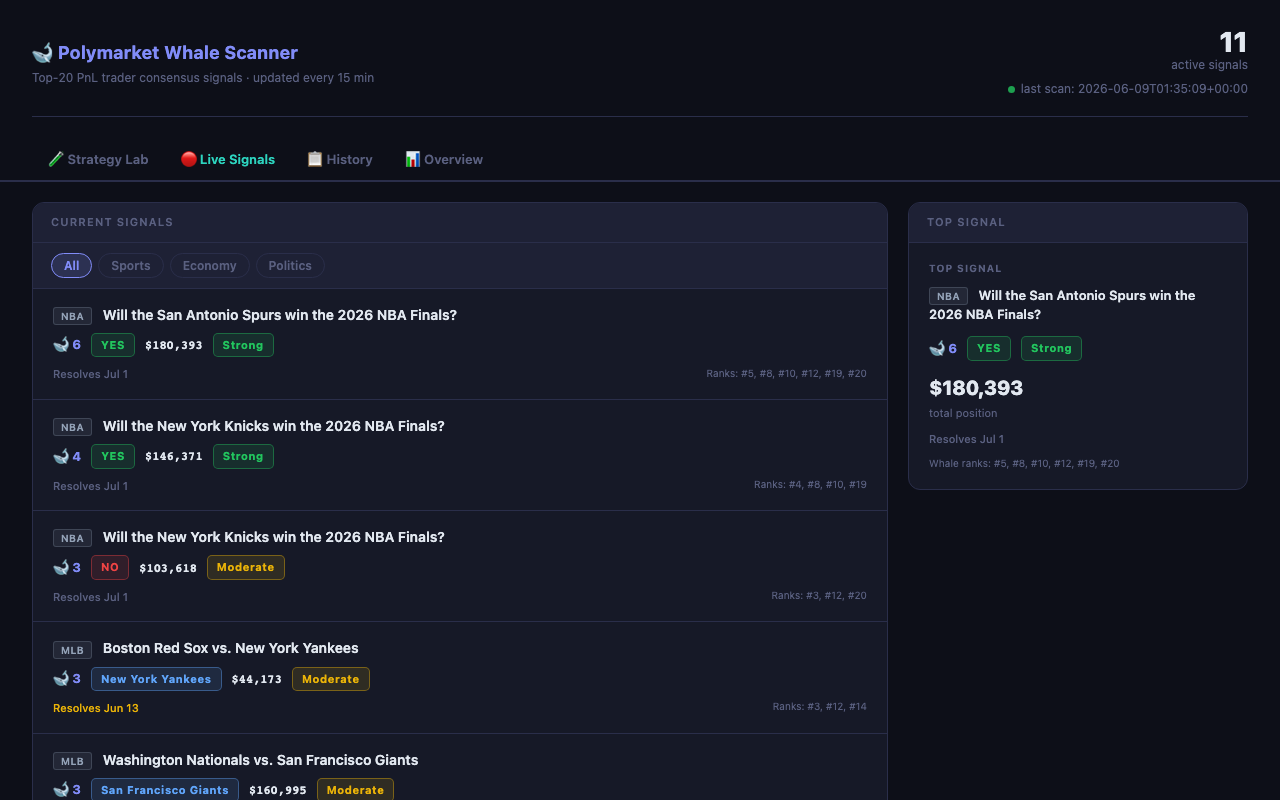
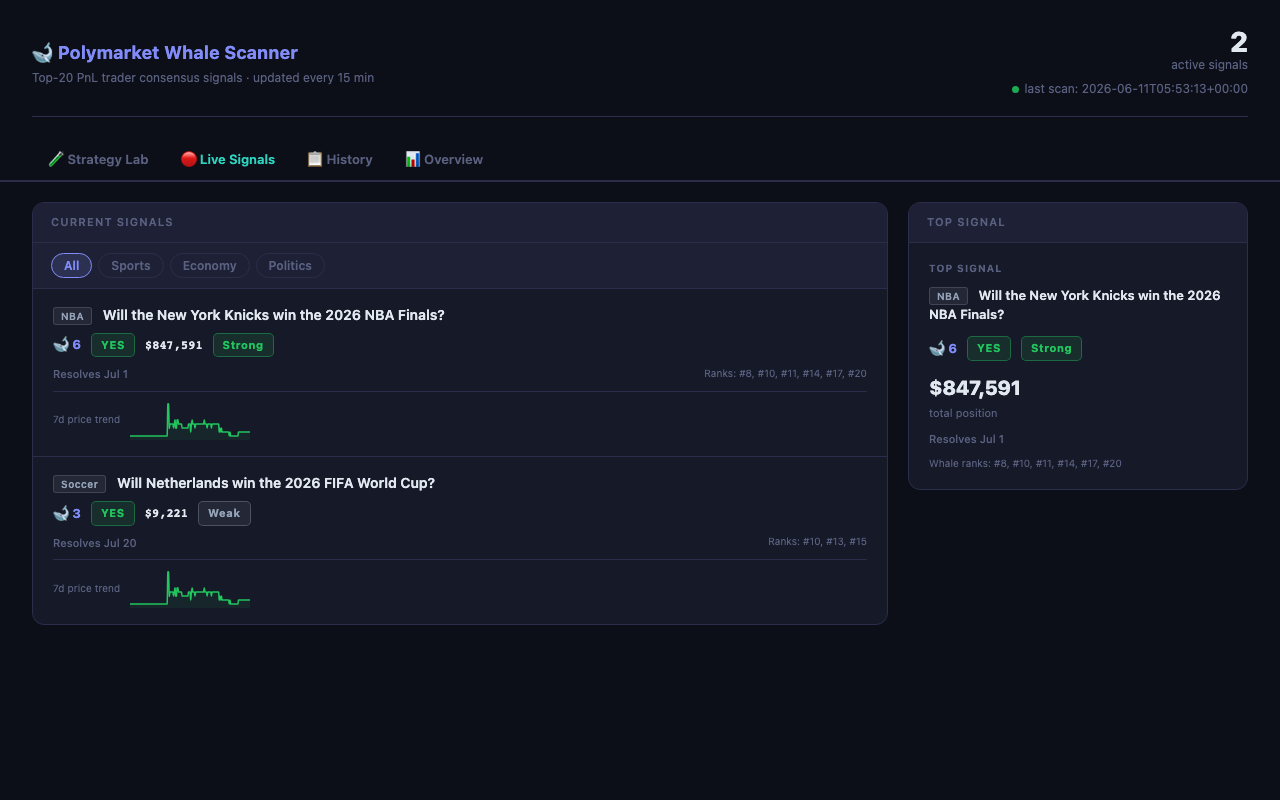
feat: signal volume chart, category donut, price sparklines
Signal Volume (History tab):
- Bar chart above resolved/pending sections showing new signals
  detected per calendar day since the scanner started
- Bars colored by dominant confidence: green=mostly Strong,
  yellow=mostly Moderate, gray=mostly Weak

Category Breakdown (Overview tab):
- Doughnut chart below Whale Leaderboard showing what share of all
  unique signals fall into each category (MLB, Tennis, Soccer, NBA…)
- Custom palette with per-category legend showing name, count, pct

Price Sparklines (Live Signals tab):
- Each active signal card shows a 120×40 inline Chart.js line chart
  of the last 7 days of price movement for the whale's chosen outcome
- Two-step fetch: Gamma markets API → clobTokenIds → CLOB
  prices-history?interval=1w&fidelity=60&market=<tokenId>
- Green line when price trending toward whale's direction (rising for
  YES bets, falling for NO bets); red when trending against
- Wraps hidden until fetch succeeds; failed/missing data skipped silently
- Results cached in sparklineCache to avoid re-fetching on filter changes
- Fix: wrap DOM id must include full sparkId prefix (swrap-spark-*)

diff --git a/dashboard.html b/dashboard.html
@@ -433,6 +433,15 @@
     /* ── Overview chart container ── */
     .overview-chart-wrap { padding: 20px; min-height: 160px; }
 
+    /* ── Sparklines ── */
+    .sparkline-wrap {
+      margin-top: 8px; padding-top: 8px;
+      border-top: 1px solid var(--border);
+      display: flex; align-items: center; gap: 10px;
+    }
+    .sparkline-label { font-size: 10px; color: var(--muted); white-space: nowrap; }
+    .sparkline-canvas { display: block; }
+
     /* ── Pending note ── */
     .pending-note {
       padding: 12px 20px; font-size: 12px; color: var(--yellow);
@@ -735,6 +744,14 @@
     <div id="whale-board"><div class="empty" style="padding:24px">Loading...</div></div>
   </div>
 
+  <div class="card">
+    <div class="card-header">Signal Breakdown by Category</div>
+    <div id="category-chart-container" style="display:flex;align-items:center;justify-content:center;gap:32px;padding:20px;min-height:180px">
+      <canvas id="category-donut" width="160" height="160" style="flex-shrink:0"></canvas>
+      <div id="category-legend" style="font-size:12px;line-height:1.9"></div>
+    </div>
+  </div>
+
 </div>
 
 <!-- ── Tab 2: Live Signals ── -->
@@ -765,6 +782,11 @@
 <div class="tab-panel" id="panel-history">
 
   <div class="card">
+    <div class="card-header">Daily Signal Volume</div>
+    <div class="overview-chart-wrap" style="min-height:140px"><canvas id="volume-chart"></canvas></div>
+  </div>
+
+  <div class="card">
     <div class="card-header">Resolved</div>
     <div id="resolved-container"><div class="empty">Loading...</div></div>
   </div>
@@ -790,6 +812,10 @@
   let strategyChart  = null;
   let donutCharts    = {};
   let strategyLabData = null;
+  let volumeChart    = null;
+  let categoryChart  = null;
+  let sparklineCharts = {};
+  let sparklineCache  = {};
   let activeFilter   = "All";
   let currentSignals = [];
   let currentLog     = [];
@@ -1218,6 +1244,227 @@
     pendEl.innerHTML = html;
   }
 
+  // ── Signal volume chart ────────────────────────────────────────────────────
+
+  function renderSignalVolumeChart(log) {
+    const canvas = document.getElementById("volume-chart");
+    if (!canvas) return;
+
+    // Count unique first-seen signals per calendar day (UTC)
+    const firstSeen = {};
+    for (const scan of log) {
+      const day = scan.timestamp.slice(0, 10);
+      for (const s of (scan.signals || [])) {
+        const k = s.signal_key || s.condition_id;
+        if (!firstSeen[k]) firstSeen[k] = { day, score: s.score };
+      }
+    }
+
+    const byDay = {};
+    for (const { day, score } of Object.values(firstSeen)) {
+      if (!byDay[day]) byDay[day] = { total: 0, strong: 0, moderate: 0, weak: 0 };
+      byDay[day].total++;
+      if (score >= 10) byDay[day].strong++;
+      else if (score >= 4) byDay[day].moderate++;
+      else byDay[day].weak++;
+    }
+
+    const days = Object.keys(byDay).sort();
+    if (!days.length) return;
+
+    const labels = days.map(d => {
+      const dt = new Date(d + "T00:00:00Z");
+      return dt.toLocaleDateString("en-US", { month: "short", day: "numeric", timeZone: "UTC" });
+    });
+    const counts = days.map(d => byDay[d].total);
+    const colors = days.map(d => {
+      const { strong, moderate, total } = byDay[d];
+      if (strong / total >= 0.5)   return "rgba(34,197,94,0.75)";
+      if (moderate / total >= 0.4) return "rgba(234,179,8,0.75)";
+      return "rgba(90,96,128,0.65)";
+    });
+
+    if (volumeChart) volumeChart.destroy();
+    volumeChart = new Chart(canvas, {
+      type: "bar",
+      data: {
+        labels,
+        datasets: [{
+          data: counts,
+          backgroundColor: colors,
+          borderColor: colors.map(c => c.replace("0.75","1").replace("0.65","1")),
+          borderWidth: 1, borderRadius: 4,
+        }]
+      },
+      options: {
+        responsive: true, aspectRatio: 3.5,
+        plugins: {
+          legend: { display: false },
+          datalabels: { display: false },
+          tooltip: {
+            backgroundColor: "#1e2135", borderColor: "#2a2e4a", borderWidth: 1,
+            titleColor: "#e2e8f0", bodyColor: "#9ca3af",
+            callbacks: { label: ctx => `  ${ctx.raw} new signal${ctx.raw !== 1 ? "s" : ""}` }
+          }
+        },
+        scales: {
+          x: {
+            grid: { display: false },
+            ticks: { color: "#5a6080", font: { size: 10 }, maxRotation: 45 }
+          },
+          y: {
+            min: 0, ticks: { stepSize: 1, color: "#5a6080", font: { size: 10 } },
+            grid: { color: "rgba(255,255,255,0.04)" }
+          }
+        }
+      }
+    });
+  }
+
+  // ── Category donut chart ───────────────────────────────────────────────────
+
+  const CAT_PALETTE = [
+    "#2dd4bf","#818cf8","#f472b6","#fb923c","#34d399",
+    "#60a5fa","#e879f9","#fbbf24","#a3e635","#f87171",
+    "#38bdf8","#c084fc","#4ade80","#facc15","#fb7185",
+  ];
+
+  function renderCategoryChart(log) {
+    const canvas = document.getElementById("category-donut");
+    const legendEl = document.getElementById("category-legend");
+    if (!canvas || !legendEl) return;
+
+    const counts = {};
+    const seen = new Set();
+    for (const scan of log) {
+      for (const s of (scan.signals || [])) {
+        if (seen.has(s.signal_key || s.condition_id)) continue;
+        seen.add(s.signal_key || s.condition_id);
+        const cat = (s.category || "").trim() || "General";
+        counts[cat] = (counts[cat] || 0) + 1;
+      }
+    }
+
+    const sorted = Object.entries(counts).sort((a, b) => b[1] - a[1]);
+    if (!sorted.length) return;
+
+    const labels  = sorted.map(([k]) => k);
+    const data    = sorted.map(([, v]) => v);
+    const bgColors = labels.map((_, i) => CAT_PALETTE[i % CAT_PALETTE.length]);
+    const total   = data.reduce((a, b) => a + b, 0);
+
+    if (categoryChart) categoryChart.destroy();
+    categoryChart = new Chart(canvas, {
+      type: "doughnut",
+      data: {
+        labels,
+        datasets: [{
+          data,
+          backgroundColor: bgColors,
+          borderColor: "rgba(0,0,0,0.3)",
+          borderWidth: 1,
+        }]
+      },
+      options: {
+        cutout: "58%",
+        responsive: false,
+        plugins: {
+          legend: { display: false },
+          datalabels: { display: false },
+          tooltip: {
+            backgroundColor: "#1e2135", borderColor: "#2a2e4a", borderWidth: 1,
+            titleColor: "#e2e8f0", bodyColor: "#9ca3af",
+            callbacks: { label: ctx => `  ${ctx.raw} signals (${Math.round(ctx.raw/total*100)}%)` }
+          }
+        }
+      }
+    });
+
+    legendEl.innerHTML = sorted.map(([cat, count], i) => {
+      const color = CAT_PALETTE[i % CAT_PALETTE.length];
+      const pct   = Math.round(count / total * 100);
+      return `<div style="display:flex;align-items:center;gap:7px">
+        <span style="display:inline-block;width:10px;height:10px;border-radius:2px;background:${color};flex-shrink:0"></span>
+        <span style="color:var(--text)">${esc(cat)}</span>
+        <span style="color:var(--muted);margin-left:auto;padding-left:12px">${count} · ${pct}%</span>
+      </div>`;
+    }).join("");
+  }
+
+  // ── Sparklines ─────────────────────────────────────────────────────────────
+
+  async function renderSparklines(signals) {
+    for (const s of signals) {
+      const safeId = s.condition_id.replace(/[^a-z0-9]/gi,"").slice(0,24) + "_" + (s.outcome_index || 0);
+      const sparkId = "spark-" + safeId;
+      const wrapId  = "swrap-" + sparkId;
+      const canvas  = document.getElementById(sparkId);
+      const wrap    = document.getElementById(wrapId);
+      if (!canvas || !wrap) continue;
+
+      try {
+        let history = sparklineCache[sparkId];
+        if (!history) {
+          // Step 1: get clobTokenIds for this conditionId
+          const mktRes = await fetch(
+            `https://gamma-api.polymarket.com/markets?conditionIds=${s.condition_id}`
+          );
+          if (!mktRes.ok) continue;
+          const mktData = await mktRes.json();
+          if (!mktData || !mktData[0]) continue;
+          const rawTokens = mktData[0].clobTokenIds || "[]";
+          const tokenIds  = JSON.parse(rawTokens);
+          const tokenId   = tokenIds[s.outcome_index] || tokenIds[0];
+          if (!tokenId) continue;
+
+          // Step 2: get price history for this outcome's token
+          const histRes = await fetch(
+            `https://clob.polymarket.com/prices-history?interval=1w&fidelity=60&market=${tokenId}`
+          );
+          if (!histRes.ok) continue;
+          const histData = await histRes.json();
+          history = (histData.history || []).filter(pt => pt.p != null);
+          if (history.length < 3) continue;
+          sparklineCache[sparkId] = history;
+        }
+
+        const prices = history.map(pt => pt.p);
+        const n = prices.length;
+        const segment = Math.max(1, Math.floor(n * 0.2));
+        const avgFirst = prices.slice(0, segment).reduce((a, b) => a + b) / segment;
+        const avgLast  = prices.slice(-segment).reduce((a, b) => a + b) / segment;
+        const rising   = avgLast > avgFirst;
+        const color    = rising ? "#22c55e" : "#ef4444";
+
+        if (sparklineCharts[sparkId]) sparklineCharts[sparkId].destroy();
+        sparklineCharts[sparkId] = new Chart(canvas, {
+          type: "line",
+          data: {
+            labels: history.map(pt => pt.t),
+            datasets: [{
+              data: prices,
+              borderColor: color, borderWidth: 1.5,
+              backgroundColor: rising
+                ? "rgba(34,197,94,0.08)" : "rgba(239,68,68,0.08)",
+              fill: true, pointRadius: 0, tension: 0.3,
+            }]
+          },
+          options: {
+            responsive: false, animation: false,
+            plugins: {
+              legend: { display: false },
+              datalabels: { display: false },
+              tooltip: { enabled: false }
+            },
+            scales: { x: { display: false }, y: { display: false } }
+          }
+        });
+
+        wrap.style.display = "flex";
+      } catch (_) {}
+    }
+  }
+
   // ── Strategy Lab ─────────────────────────────────────────────────────────
 
   const LAB_META = {
@@ -1587,6 +1834,7 @@
     const ranks   = Array.isArray(s.ranks) ? s.ranks.map(r => "#"+r).join(", ") : "—";
     const resolve = fmtResolveDate(s.end_date);
     const lastSeenNote = opts.lastSeen ? `Last seen ${esc(opts.lastSeen)} · ` : "";
+    const sparkId = "spark-" + s.condition_id.replace(/[^a-z0-9]/gi,"").slice(0,24) + "_" + (s.outcome_index || 0);
     return `<div class="signal-item"${opts.dim ? ' style="opacity:0.65"' : ""}>
       <div class="signal-item-title">
         ${s.category ? `<span class="cat-tag">${esc(s.category)}</span>` : ""}
@@ -1601,6 +1849,10 @@
       <div class="signal-footer">
         ${resolve ? `<span class="resolve-date ${resolve.cls}">${resolve.label}</span>` : "<span></span>"}
         <span class="signal-footer-ranks">${lastSeenNote}Ranks: ${esc(ranks)}</span>
+      </div>
+      <div class="sparkline-wrap" id="swrap-${sparkId}" style="display:none">
+        <span class="sparkline-label">7d price trend</span>
+        <canvas id="${sparkId}" width="120" height="40" class="sparkline-canvas"></canvas>
       </div>
     </div>`;
   }
@@ -1643,6 +1895,8 @@
 
     const rows = filtered.map(s => signalRowHtml(s)).join("");
     el.innerHTML = rows;
+    // Sparklines run async after DOM update
+    requestAnimationFrame(() => renderSparklines(filtered));
   }
 
   // ── Top signal callout ────────────────────────────────────────────────────
@@ -1733,6 +1987,9 @@
       renderWhaleLeaderboard(signals, whaleTimeframes);
       renderAlerts(log);
       renderHistory(log, backtestSignals);
+      renderSignalVolumeChart(log);
+      renderCategoryChart(log);
+      renderSparklines(signals);
 
     } catch (err) {
       document.getElementById("table-container").innerHTML = `